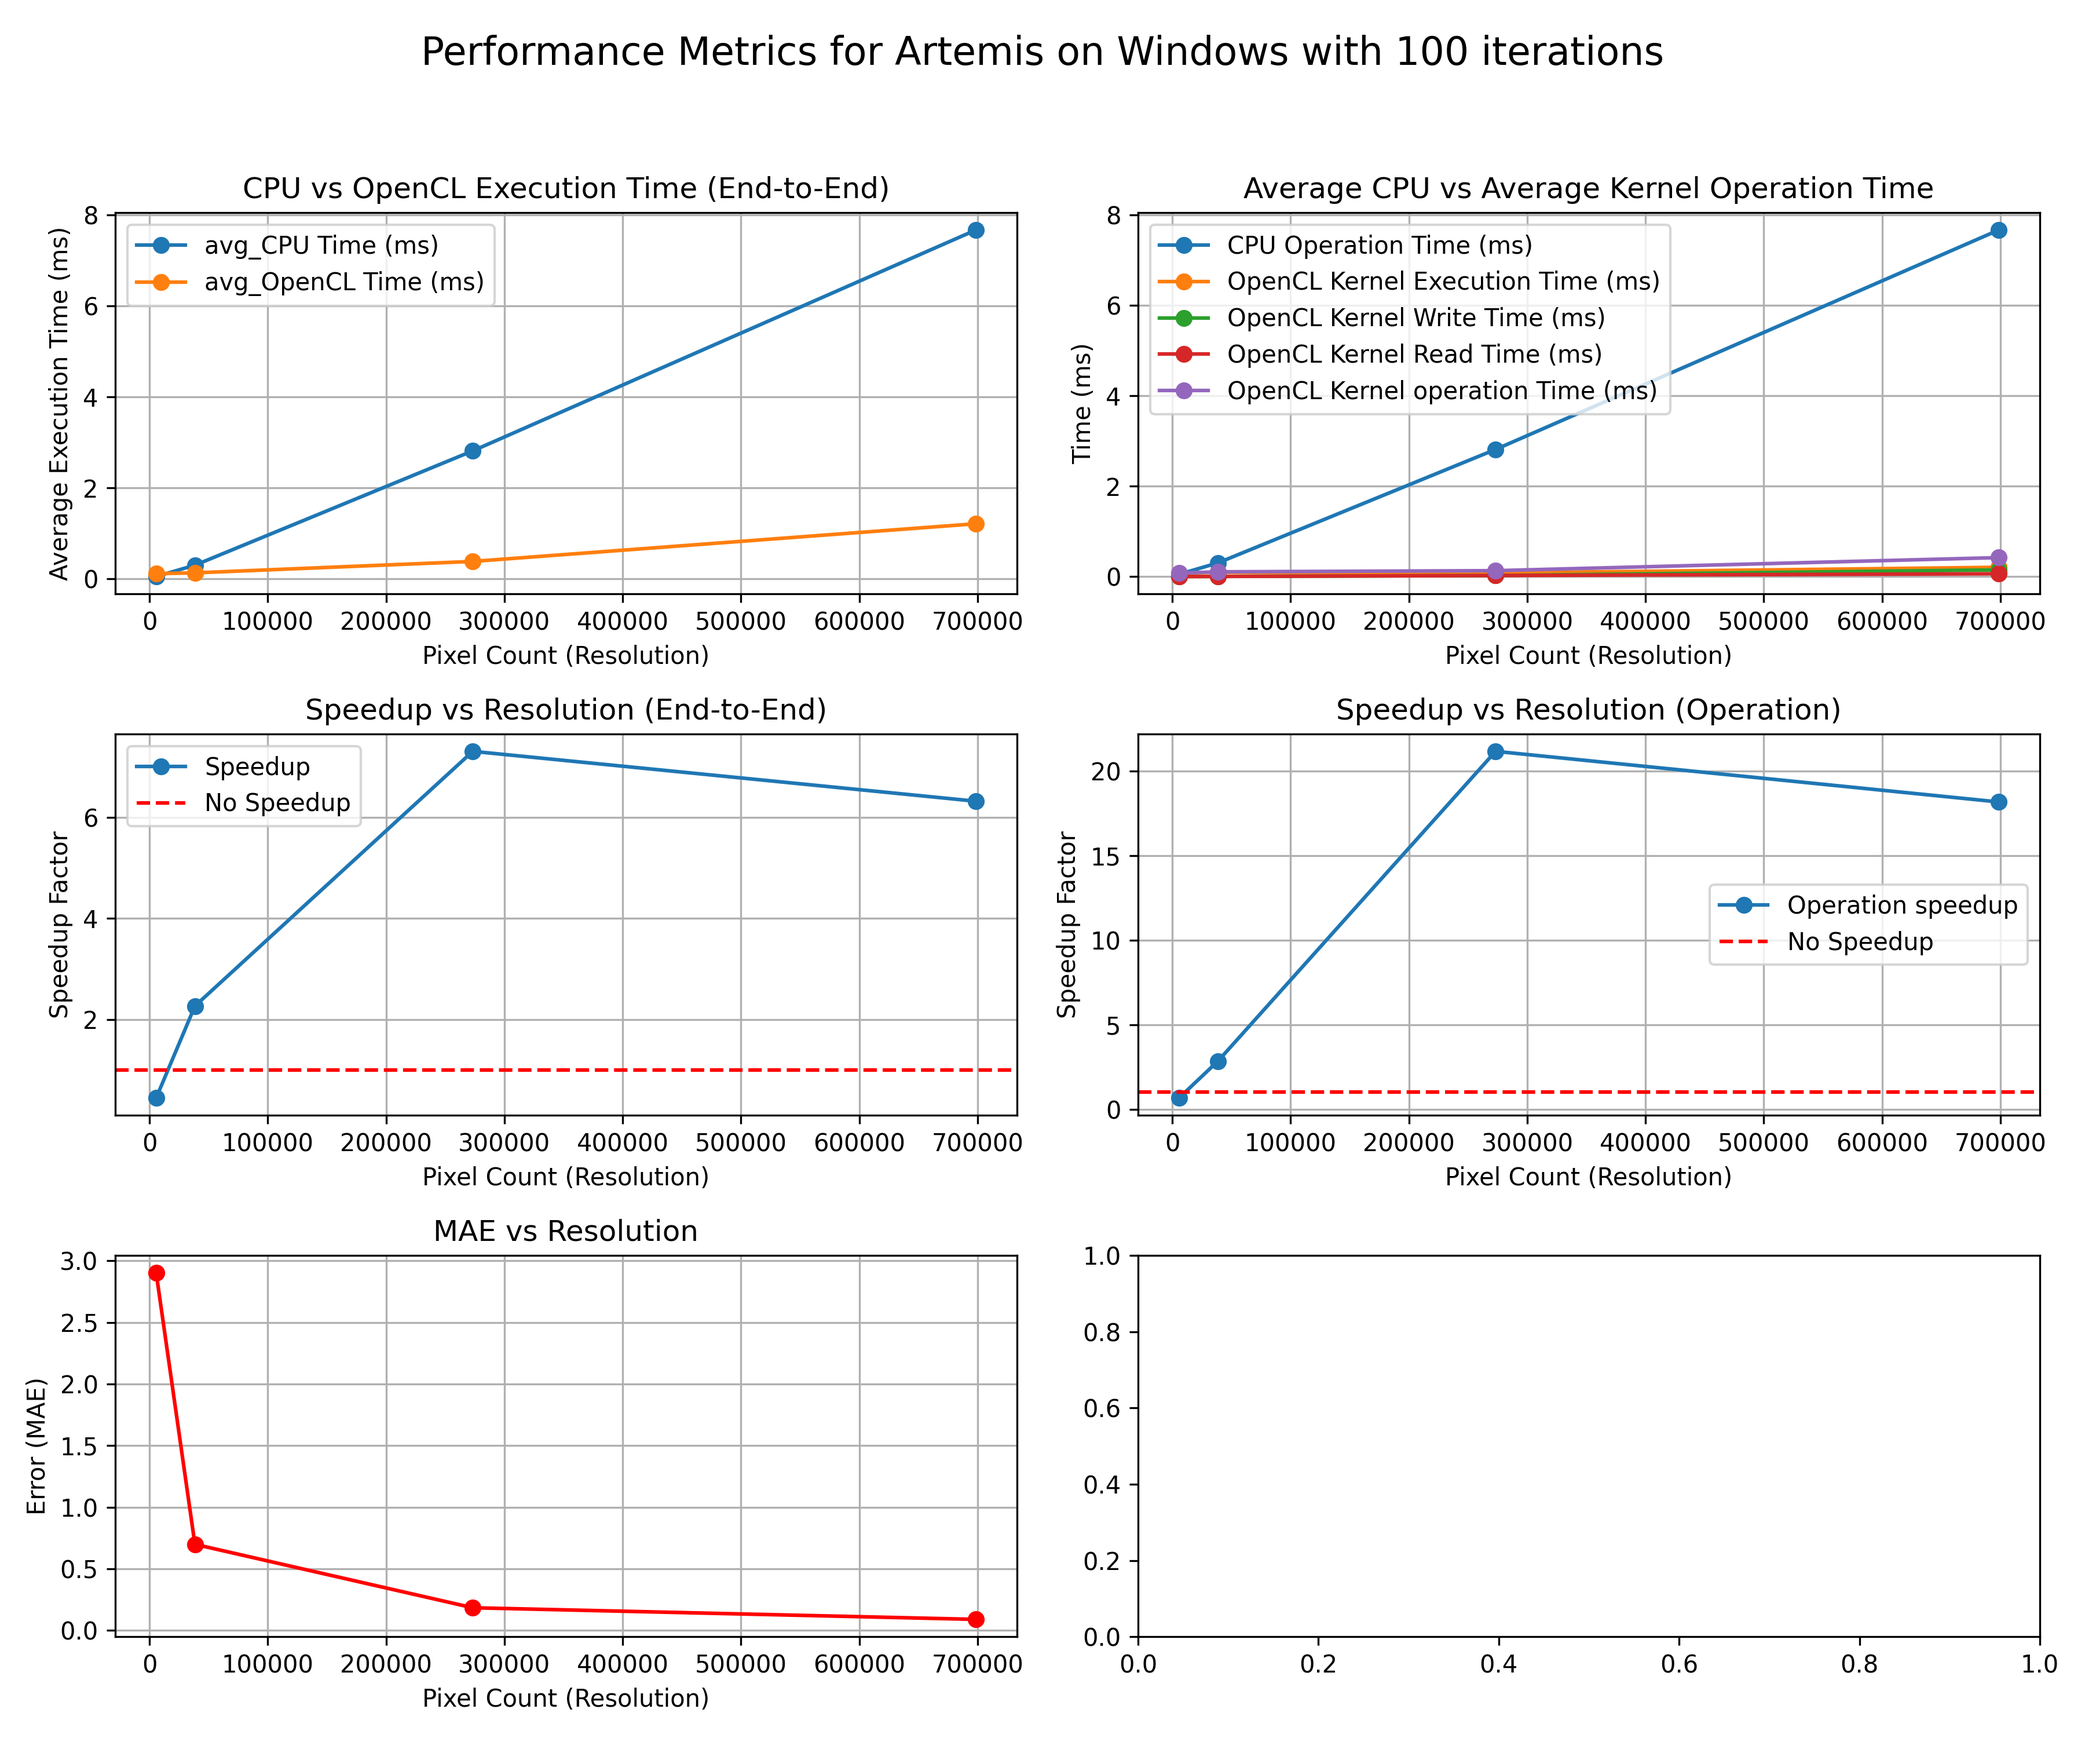
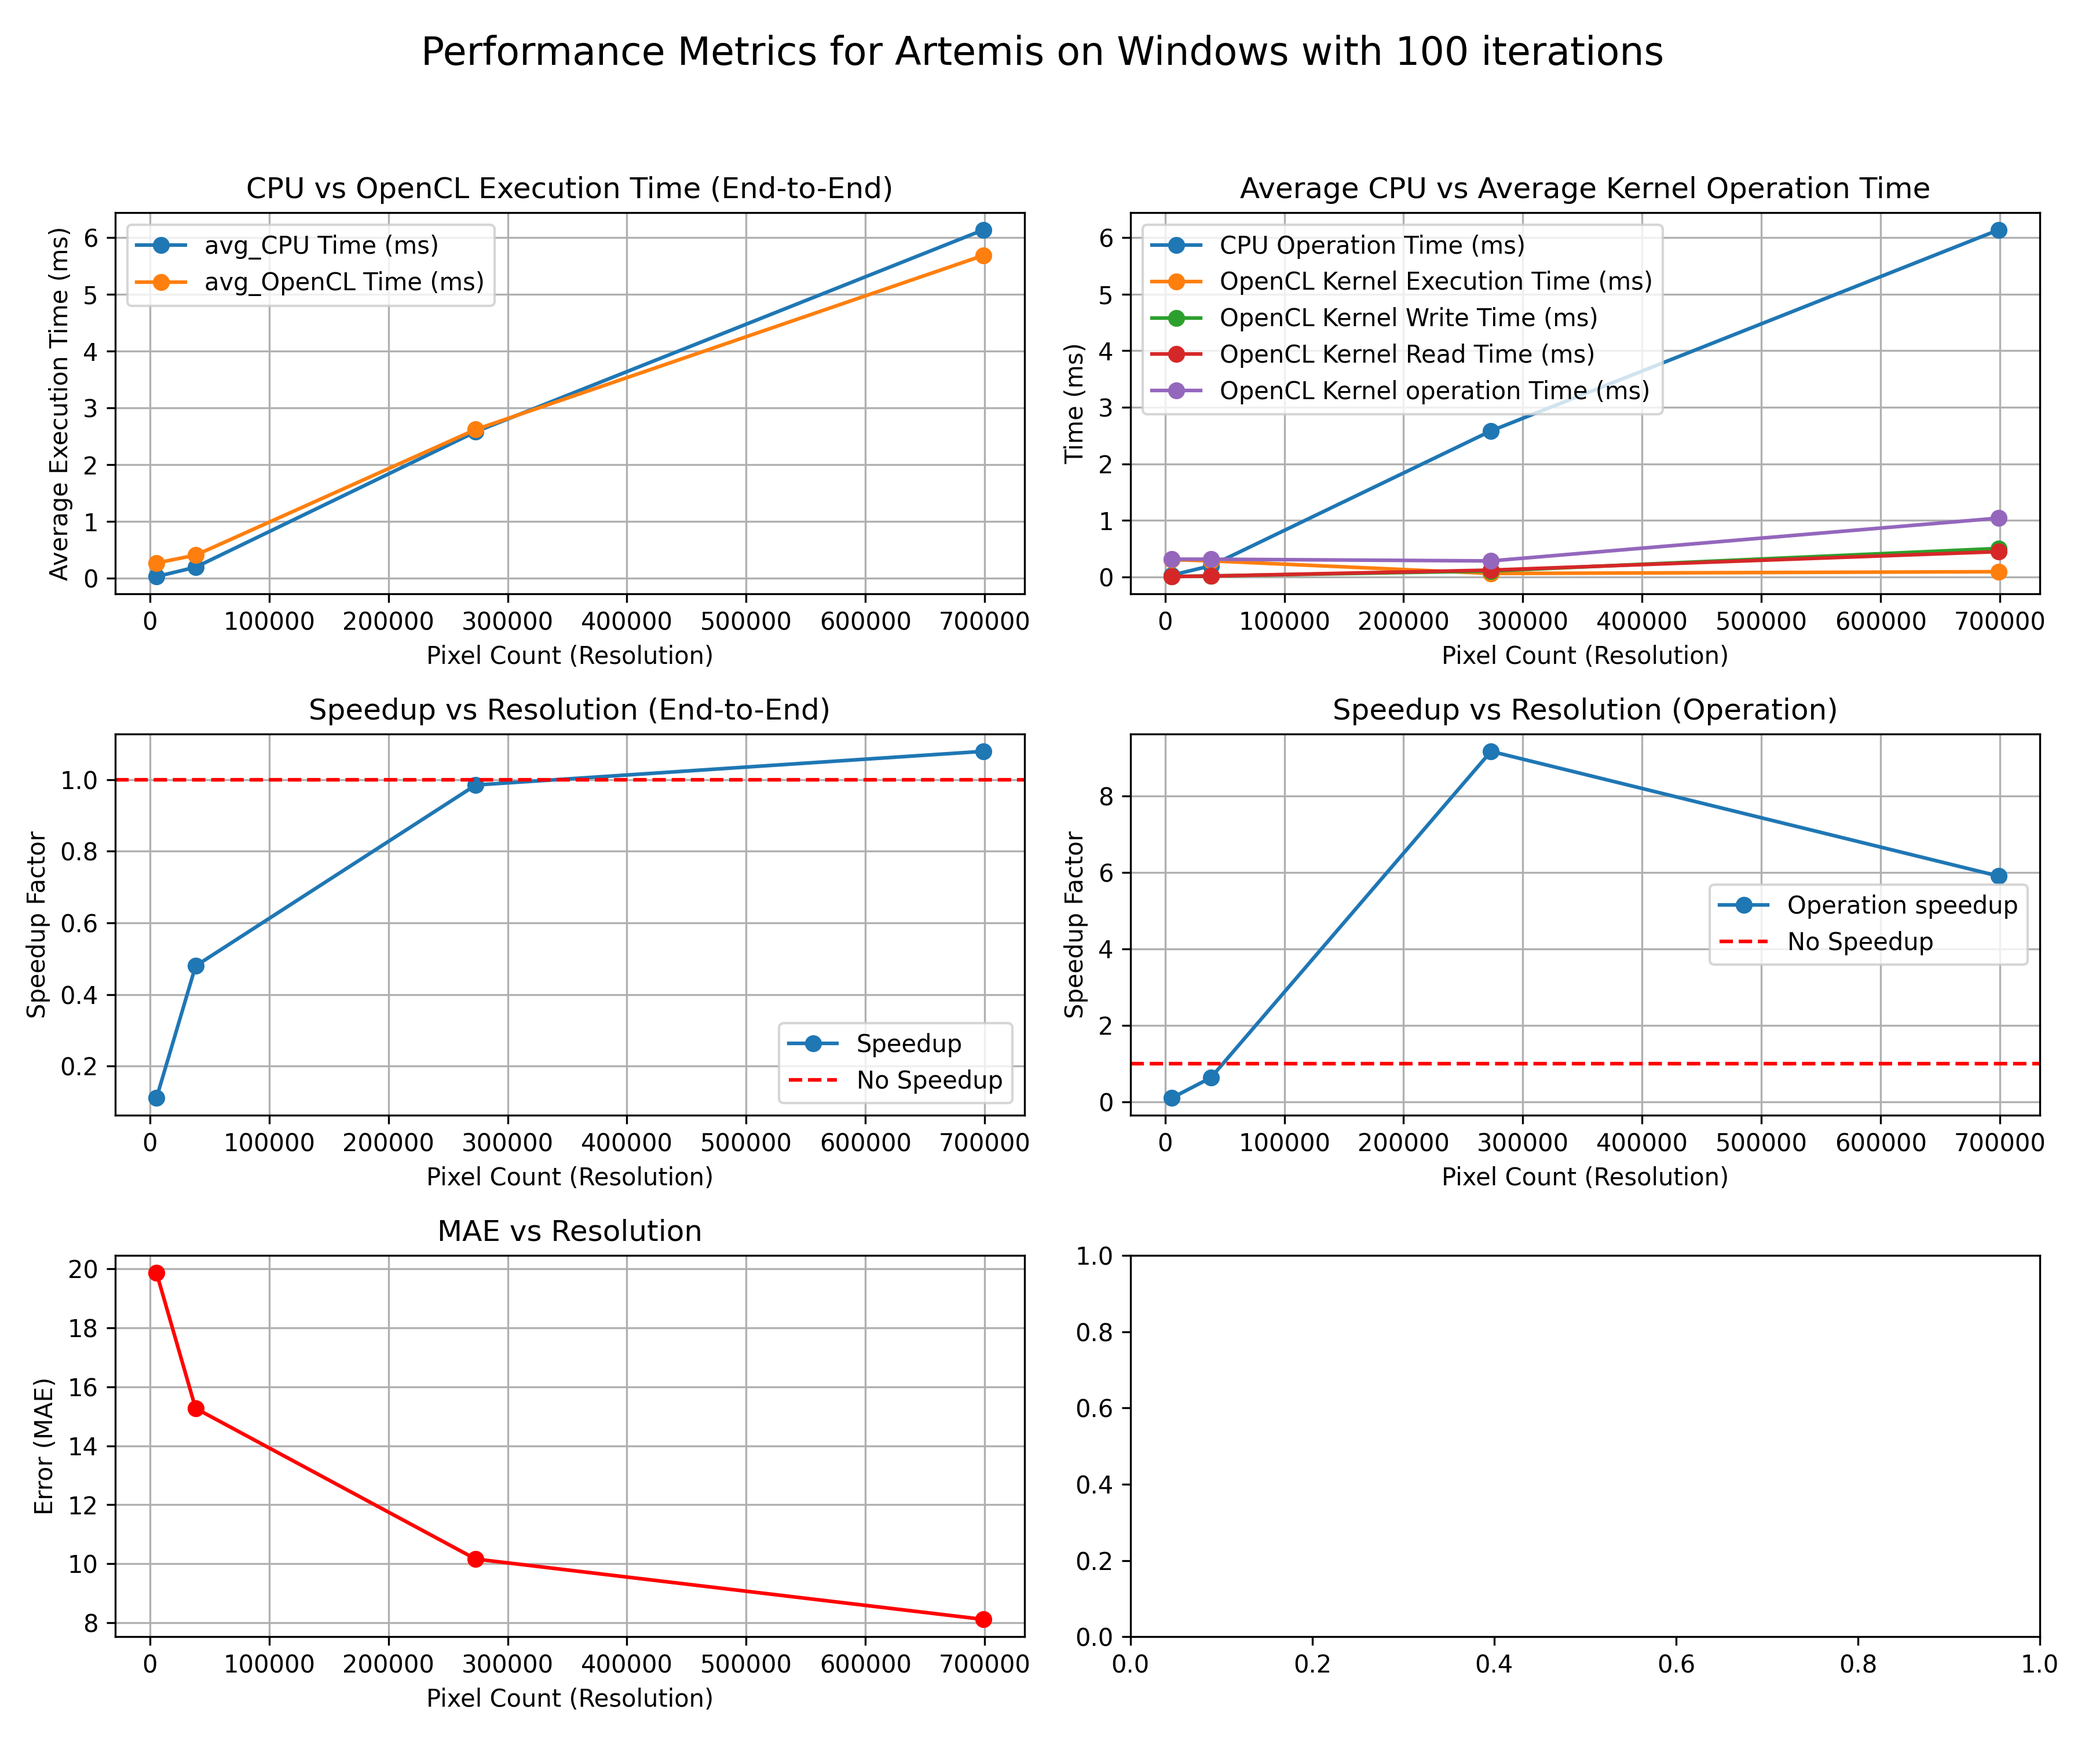
performed cleanup on edge-detection

diff --git a/src/EdgeDetection/results/visualisation.py b/src/EdgeDetection/results/visualisation.py
@@ -4,7 +4,7 @@ import matplotlib.pyplot as plt
 
 # 0 - Linux
 # 1 - Windows
-USING_OS = 0
+USING_OS = 1
 
 # 0 - Debug
 # 1- Release
